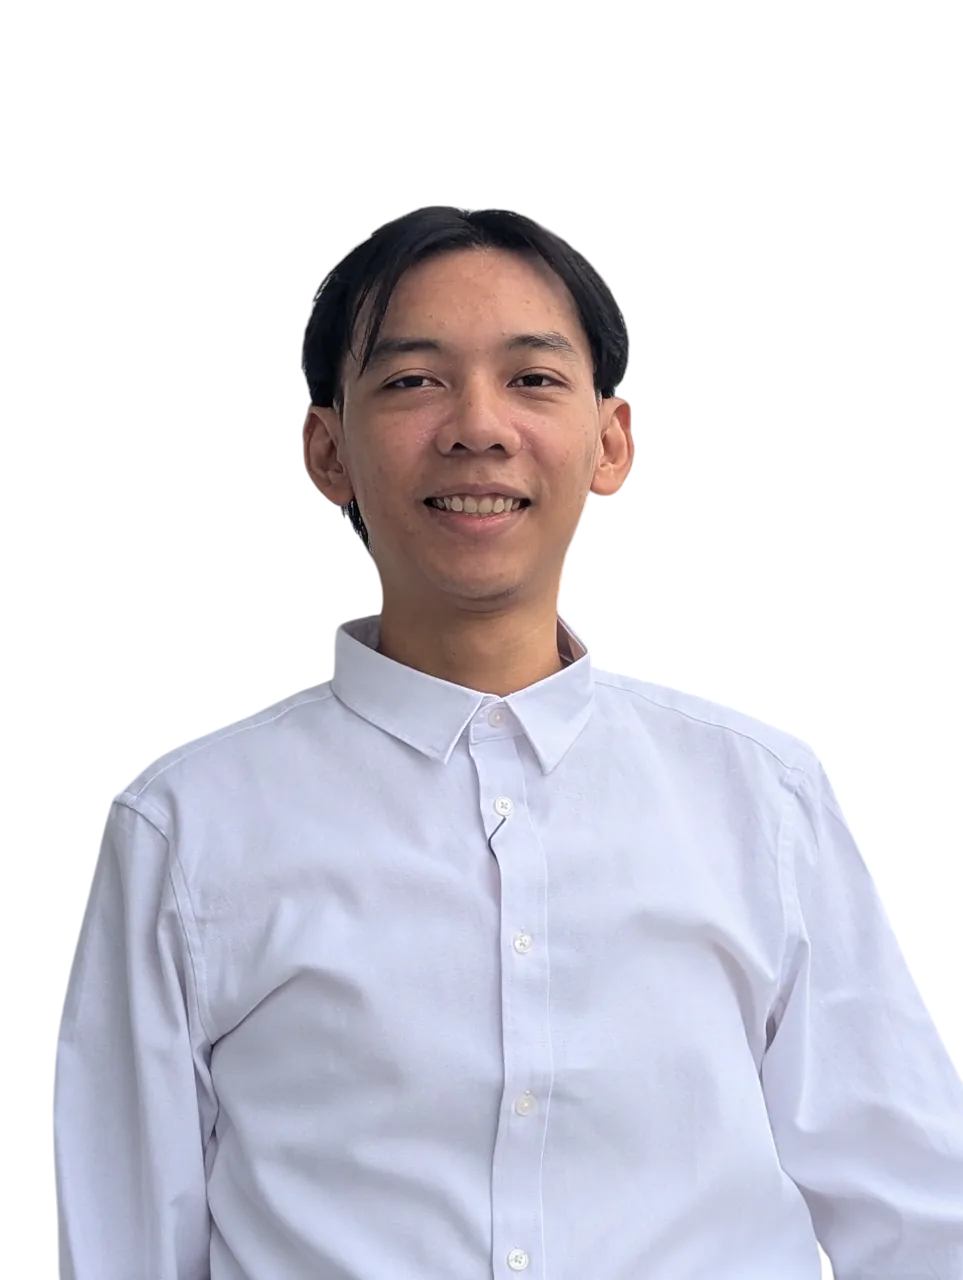
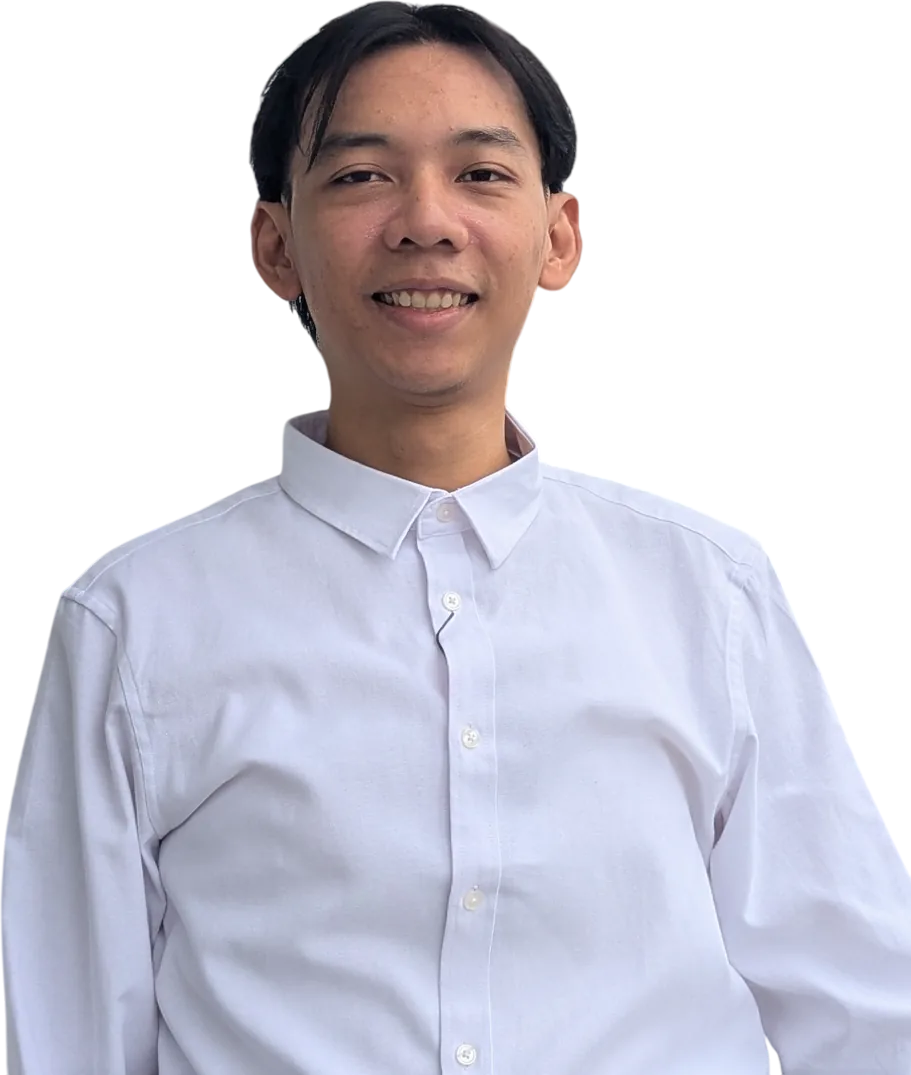
Resize portrait

diff --git a/components/home/Hero/Hero.module.css b/components/home/Hero/Hero.module.css
@@ -21,23 +21,11 @@
   bottom: -10px;
   z-index: 3;
   /*
-   * Height-led; the width follows the image's own aspect ratio (set inline) — never squashed.
-   * Small screens: full width, capped so the head stays clear of the marquee.
+   * Two thirds of the screen height; the width follows the image's own aspect ratio (set inline),
+   * so it's never squashed. On narrow screens the sides may run past the edges (the hero clips them).
    */
-  height: min(80svh, calc(100vw * 1280 / 963));
+  height: calc(100svh * 2 / 3);
   translate: -50% 0;
-}
-
-@media (min-width: 1024px) {
-  .portrait {
-    height: min(550px, 80svh);
-  }
-}
-
-@media (min-width: 1280px) {
-  .portrait {
-    height: min(645px, 80svh);
-  }
 }
 
 /* Cursor parallax layer (GSAP moves it), so it doesn't fight the intro/scroll tweens on .portrait */

diff --git a/components/home/Hero/Hero.tsx b/components/home/Hero/Hero.tsx
@@ -108,7 +108,7 @@ export default function Hero() {
             preload
             fetchPriority="high"
             unoptimized
-            sizes="(max-width: 1023px) 100vw, 485px"
+            sizes="50vh"
             className={styles.portraitImage}
           />
           {withEffect && (
